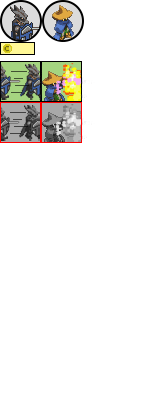
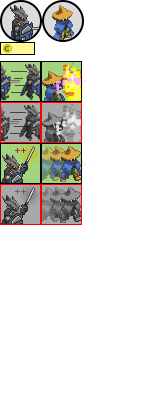
all abilities hud implemented

Changed region(s): [[0.0, 0.3504, 0.5215, 0.5547]]

diff --git a/CursedHeaven/Motor2D/j1Hud.cpp b/CursedHeaven/Motor2D/j1Hud.cpp
@@ -60,10 +60,16 @@ bool j1Hud::Update(float dt)
 	// DK Q
 	SDL_Rect dk_available_q = {0,61,41,41};
 	SDL_Rect dk_notavailable_q = {0,102,41,41};
+	// DK E
+	SDL_Rect dk_available_e = { 0,143,41,41 };
+	SDL_Rect dk_notavailable_e = {0,184,41,41};
 
 	// BM Q
 	SDL_Rect bm_available_q = { 41,61,41,41 };
 	SDL_Rect bm_notavailable_q = { 41,102,41,41 };
+	// BM E
+	SDL_Rect bm_available_e = { 41,143,41,41 };
+	SDL_Rect bm_notavailable_e = { 41,184,41,41 };
 
 	if (App->entity->player_type == MAGE)
 		black_mage = true;
@@ -75,19 +81,32 @@ bool j1Hud::Update(float dt)
 		App->render->Blit(hud_text, 5, 5, &bm_profile, SDL_FLIP_NONE, 1.0f, 1.0f, 0.0, pivot, pivot, false);
 
 		// Abilities
+		// Q
 		App->render->Blit(hud_text, 15, 300, &bm_available_q, SDL_FLIP_NONE, 1.0f, 0.5f, 0.0, pivot, pivot, false);
 		if (!App->entity->currentPlayer->available_Q) {
 			App->render->Blit(hud_text, 15, 300, &bm_notavailable_q, SDL_FLIP_NONE, 1.0f, 0.5f, 0.0, pivot, pivot, false);
 		}
+		// E
+		App->render->Blit(hud_text, 15, 400, &bm_available_e, SDL_FLIP_NONE, 1.0f, 0.5f, 0.0, pivot, pivot, false);
+		if (!App->entity->currentPlayer->available_E) {
+			App->render->Blit(hud_text, 15, 400, &bm_notavailable_e, SDL_FLIP_NONE, 1.0f, 0.5f, 0.0, pivot, pivot, false);
+		}
+
 	}
 	else if (dragoon_knight) {
 		// Icon profile
 		App->render->Blit(hud_text, 5, 5, &dk_profile, SDL_FLIP_NONE, 1.0f, 1.0f, 0.0, pivot, pivot, false);
 
 		// Abilities
+		// Q
 		App->render->Blit(hud_text, 15, 300, &dk_available_q, SDL_FLIP_NONE, 1.0f, 0.5f, 0.0, pivot, pivot, false);
 		if (!App->entity->currentPlayer->available_Q) {
 			App->render->Blit(hud_text, 15, 300, &dk_notavailable_q, SDL_FLIP_NONE, 1.0f, 0.5f, 0.0, pivot, pivot, false);
+		}
+		// E
+		App->render->Blit(hud_text, 15, 400, &dk_available_e, SDL_FLIP_NONE, 1.0f, 0.5f, 0.0, pivot, pivot, false);
+		if (!App->entity->currentPlayer->available_E) {
+			App->render->Blit(hud_text, 15, 400, &dk_notavailable_e, SDL_FLIP_NONE, 1.0f, 0.5f, 0.0, pivot, pivot, false);
 		}
 
 	}

diff --git a/CursedHeaven/Motor2D/j1DragoonKnight.cpp b/CursedHeaven/Motor2D/j1DragoonKnight.cpp
@@ -131,7 +131,7 @@ bool j1DragoonKnight::Update(float dt, bool do_logic) {
 					}
 				}
 
-				if (cooldown_Q.Read() >= lastTime_Q + cooldownTime_Q) available_Q = true;
+				if ((cooldown_Q.Read() >= lastTime_Q + cooldownTime_Q) || firstTimeQ) available_Q = true;
 				else available_Q = false;
 
 				// Ability control
@@ -179,6 +179,9 @@ bool j1DragoonKnight::Update(float dt, bool do_logic) {
 					}
 				}
 			}
+
+			if ((cooldown_E.Read() >= lastTime_E + cooldownTime_E) || firstTimeE) available_E = true;
+			else available_E = false;
 
 			if ((App->input->GetKey(SDL_SCANCODE_E) == j1KeyState::KEY_DOWN || SDL_GameControllerGetButton(App->input->controller, SDL_CONTROLLER_BUTTON_B) == KEY_DOWN)
 				&& (firstTimeE || (active_E == false && cooldown_E.Read() >= lastTime_E + cooldownTime_E))) {

diff --git a/CursedHeaven/Motor2D/j1BlackMage.cpp b/CursedHeaven/Motor2D/j1BlackMage.cpp
@@ -193,8 +193,11 @@ bool j1BlackMage::Update(float dt, bool do_logic) {
 				}
 			}		
 
-			if (cooldown_Q.Read() >= lastTime_Q + cooldownTime_Q) available_Q = true;
+			if ((cooldown_Q.Read() >= lastTime_Q + cooldownTime_Q) || firstTimeQ) available_Q = true;
 			else available_Q = false;
+
+			if ((cooldown_E.Read() >= lastTime_E + cooldownTime_E) || firstTimeE) available_E = true;
+			else available_E = false;
 
 			// Fire explosion
 			if ((App->input->GetKey(SDL_SCANCODE_Q) == j1KeyState::KEY_DOWN || SDL_GameControllerGetButton(App->input->controller, SDL_CONTROLLER_BUTTON_Y) == KEY_DOWN)

diff --git a/CursedHeaven/Motor2D/j1Scene1.h b/CursedHeaven/Motor2D/j1Scene1.h
@@ -4,7 +4,6 @@
 #include "j1Module.h"
 #include "j1Button.h"
 #include "j1Timer.h"
-#include "j1Hud.h"
 #include "PugiXml/src/pugixml.hpp"
 #include <list>
 
@@ -50,7 +49,6 @@ public:
 
 public:
 	j1Box* settings_window = nullptr;
-	j1Hud* hud = nullptr;
 	fPoint initialScene1Position;
 	bool player_created = false;
 	bool backToMenu = false;

diff --git a/CursedHeaven/Motor2D/j1Scene1.cpp b/CursedHeaven/Motor2D/j1Scene1.cpp
@@ -61,11 +61,9 @@ bool j1Scene1::Awake(pugi::xml_node& config)
 // Called before the first frame
 bool j1Scene1::Start()
 {
-	hud = new j1Hud();
 
 	if (active)
 	{		
-		hud->Start();
 		// The map is loaded
 		if (App->map->Load("greenmount.tmx"))
 		{
